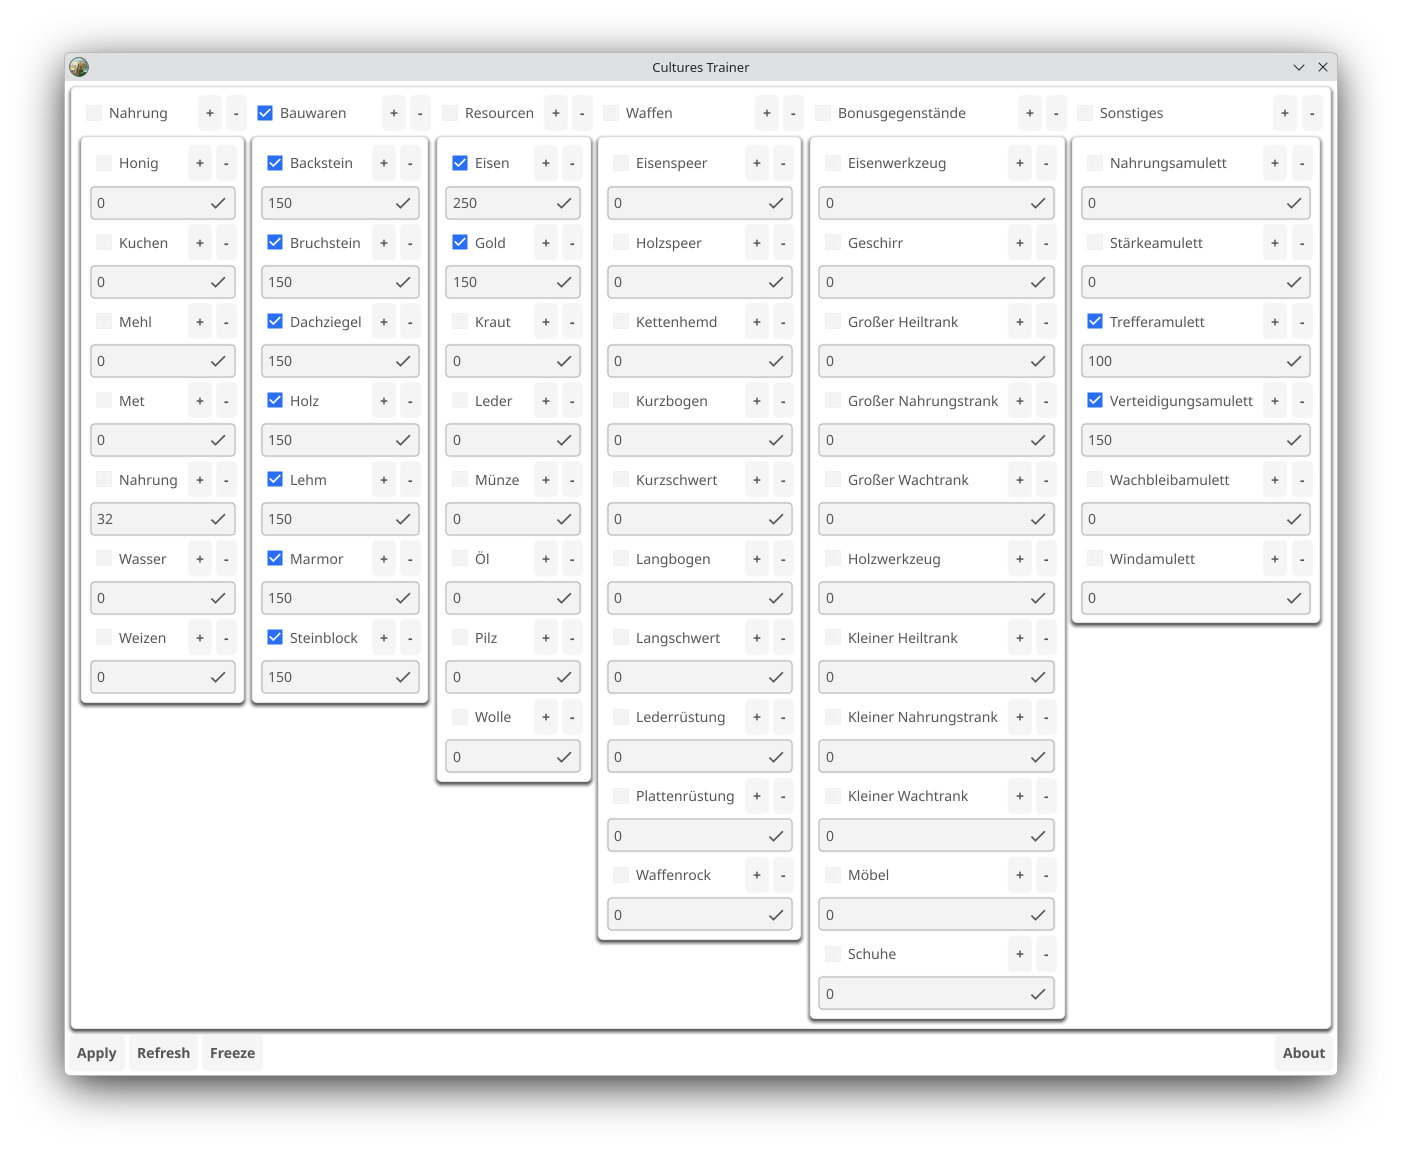
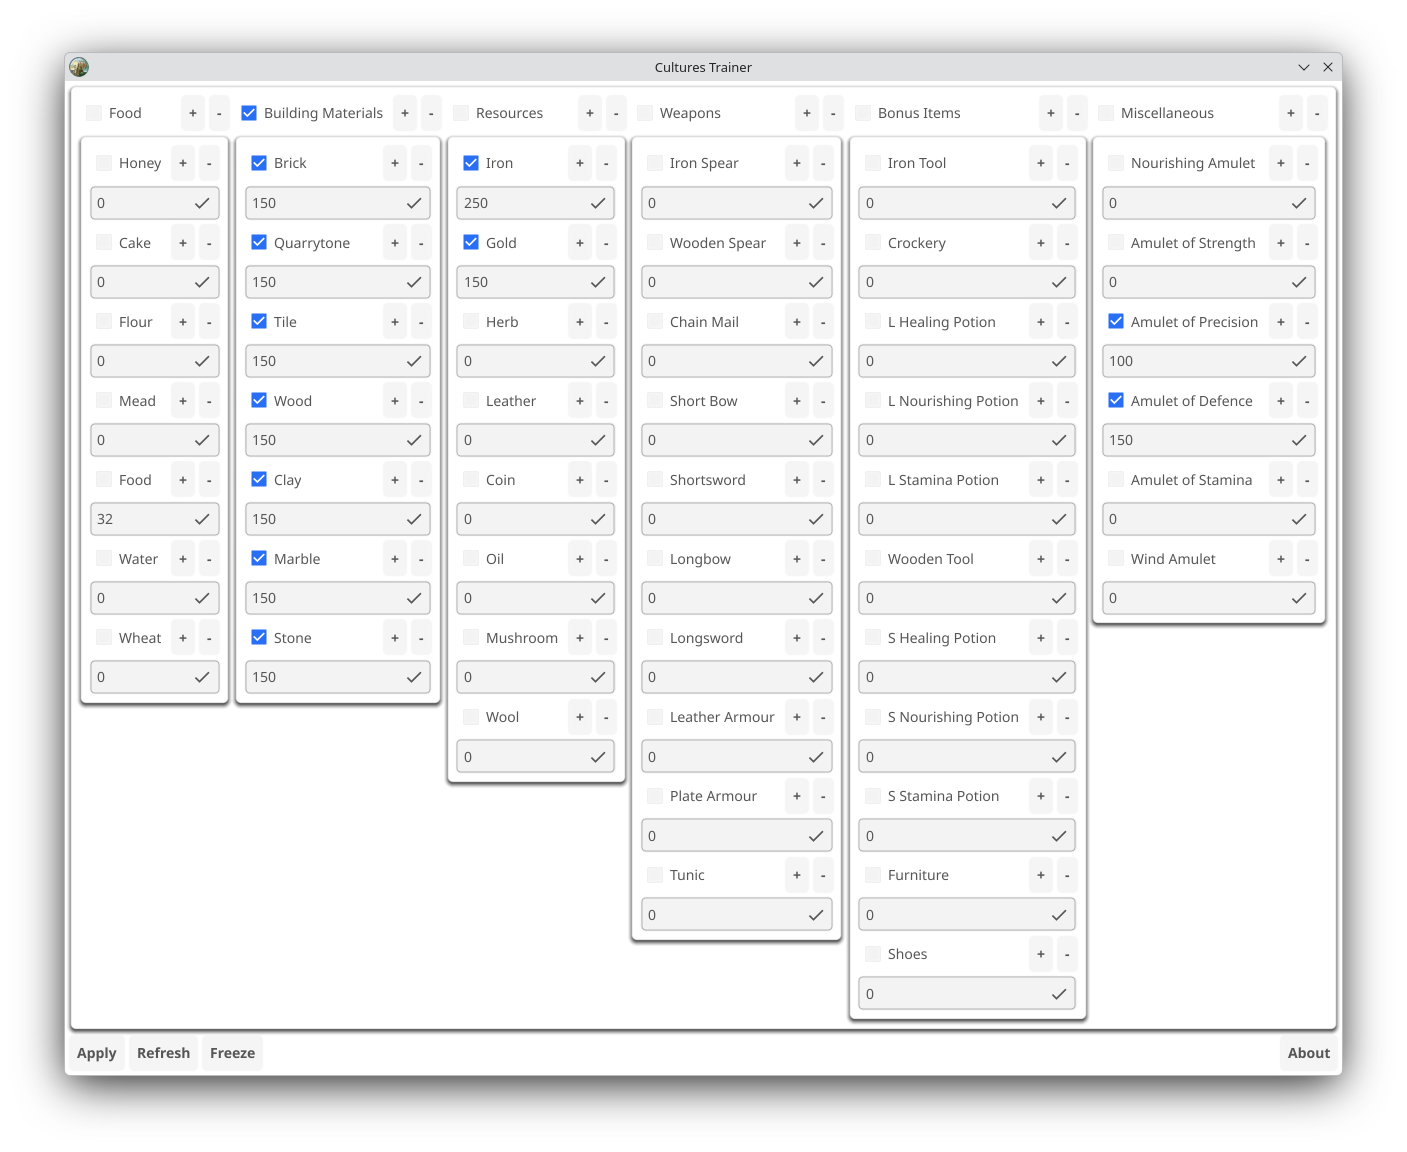
feat: Add english translation
Implement translation for the app.
Add englisch translation for resource names.
Add german translation for Buttons and other UI elements.

Update screenshots with translated UI.

diff --git a/pkg/app/app.go b/pkg/app/app.go
@@ -1,12 +1,15 @@
 package app
 
 import (
+	"embed"
 	"fmt"
+	"log/slog"
 
 	"fyne.io/fyne/v2"
 	fApp "fyne.io/fyne/v2/app"
 	"fyne.io/fyne/v2/container"
 	"fyne.io/fyne/v2/dialog"
+	"fyne.io/fyne/v2/lang"
 	"fyne.io/fyne/v2/layout"
 	"fyne.io/fyne/v2/widget"
 	"github.com/heathcliff26/cultures-trainer/pkg/trainer"
@@ -16,6 +19,9 @@ const (
 	freezeButtonTextFreeze   = "Freeze"
 	freezeButtonTextUnfreeze = "Unfreeze"
 )
+
+//go:embed translations
+var translationsFS embed.FS
 
 // Used to change the new app function for testing
 var newApp = fApp.New
@@ -34,6 +40,11 @@ type App struct {
 }
 
 func New() *App {
+	err := lang.AddTranslationsFS(translationsFS, "translations")
+	if err != nil {
+		slog.Error("Failed to load translations", slog.Any("error", err))
+	}
+
 	app := newApp()
 	version := getVersion(app)
 	main := app.NewWindow(version.Name)
@@ -70,37 +81,46 @@ func (a *App) initContent() {
 		_, err := hexStringToUint64(s)
 		return err
 	}
-	storageAddressInput := container.NewVBox(widget.NewLabel(minimumLengthString("Storage Address", 20)), a.storageAddressEntry)
+	storageAddressInput := container.NewVBox(widget.NewLabel(minimumLengthString(lang.L("Storage Address"), 20)), a.storageAddressEntry)
 
-	storageAddressTypeSelect := widget.NewSelect(trainer.StorageLocations, func(s string) {
+	storageLocations := make([]string, len(trainer.StorageLocations))
+	for i, v := range trainer.StorageLocations {
+		storageLocations[i] = lang.L(v)
+	}
+	storageAddressTypeSelect := widget.NewSelect(storageLocations, func(s string) {
+		for i, v := range storageLocations {
+			if v == s {
+				s = trainer.StorageLocations[i]
+			}
+		}
 		offset := trainer.StorageIndexes[s]
 		// #nosec G115 -- The indexes are guaranteed to be positive.
 		a.storageAddressOffset = uint64(offset)
 	})
 	storageAddressTypeSelect.SetSelectedIndex(7)
-	storageAddressType := container.NewVBox(widget.NewLabel(minimumLengthString("Resource Name", 30)), storageAddressTypeSelect)
+	storageAddressType := container.NewVBox(widget.NewLabel(minimumLengthString(lang.L("Resource Name"), 30)), storageAddressTypeSelect)
 
-	startButton := widget.NewButton("Start Trainer", func() {})
+	startButton := widget.NewButton(lang.L("Start"), func() {})
 
 	setupBlock := container.NewHBox(storageAddressType, storageAddressInput)
 	setupBlock = container.NewVBox(setupBlock, startButton)
 
 	storageCategories := newBorder(container.NewHBox(
-		a.initStorageCategory("Nahrung", trainer.CategoryNahrung),
-		a.initStorageCategory("Bauwaren", trainer.CategoryBauwaren),
-		a.initStorageCategory("Resourcen", trainer.CategoryResourcen),
-		a.initStorageCategory("Waffen", trainer.CategoryWaffen),
-		a.initStorageCategory("Bonusgegenstände", trainer.CategoryBonus),
-		a.initStorageCategory("Sonstiges", trainer.CategorySonstiges),
+		a.initStorageCategory(lang.L("Nahrung"), trainer.CategoryNahrung),
+		a.initStorageCategory(lang.L("Bauwaren"), trainer.CategoryBauwaren),
+		a.initStorageCategory(lang.L("Resourcen"), trainer.CategoryResourcen),
+		a.initStorageCategory(lang.L("Waffen"), trainer.CategoryWaffen),
+		a.initStorageCategory(lang.L("Bonusgegenstände"), trainer.CategoryBonus),
+		a.initStorageCategory(lang.L("Sonstiges"), trainer.CategorySonstiges),
 	))
 
-	refreshButton := widget.NewButton("Refresh", a.refreshStorageValues)
-	applyButton := widget.NewButton("Apply", a.applyStorageValues)
-	a.freezeButton = widget.NewButton(freezeButtonTextFreeze, a.freezeSelectedValues)
+	refreshButton := widget.NewButton(lang.L("Refresh"), a.refreshStorageValues)
+	applyButton := widget.NewButton(lang.L("Apply"), a.applyStorageValues)
+	a.freezeButton = widget.NewButton(lang.L(freezeButtonTextFreeze), a.freezeSelectedValues)
 
-	aboutButton := widget.NewButton("About", func() {
+	aboutButton := widget.NewButton(lang.L("About"), func() {
 		content := getVersionContent(a.version)
-		dialog.ShowCustom("About "+a.version.Name, "Close", content, a.main)
+		dialog.ShowCustom(lang.L("About")+" "+a.version.Name, lang.L("Close"), content, a.main)
 	})
 
 	runBlock := container.NewVBox(storageCategories, container.NewHBox(applyButton, refreshButton, a.freezeButton, layout.NewSpacer(), aboutButton))
@@ -149,7 +169,7 @@ func (a *App) initStorageCategory(name string, items []string) fyne.CanvasObject
 	})
 	for i, item := range items {
 		index := trainer.StorageIndexes[item]
-		a.resourceEntries[index] = NewInt32Entry(item)
+		a.resourceEntries[index] = NewInt32Entry(lang.L(item))
 		obj[i] = a.resourceEntries[index]
 	}
 	return container.NewVBox(container.NewHBox(categoryCheckbox, layout.NewSpacer(), categoryIncreaseButton, categoryDecreaseButton), newBorder(container.NewVBox(obj...)))
@@ -202,7 +222,7 @@ func (a *App) freezeSelectedValues() {
 	}
 	a.trainer.FreezeStorageValues(values)
 
-	a.freezeButton.Text = freezeButtonTextUnfreeze
+	a.freezeButton.Text = lang.L(freezeButtonTextUnfreeze)
 	a.freezeButton.OnTapped = a.unfreezeValues
 }
 
@@ -212,6 +232,6 @@ func (a *App) unfreezeValues() {
 	}
 	a.trainer.UnfreezeStorageValues()
 
-	a.freezeButton.Text = freezeButtonTextFreeze
+	a.freezeButton.Text = lang.L(freezeButtonTextFreeze)
 	a.freezeButton.OnTapped = a.freezeSelectedValues
 }
